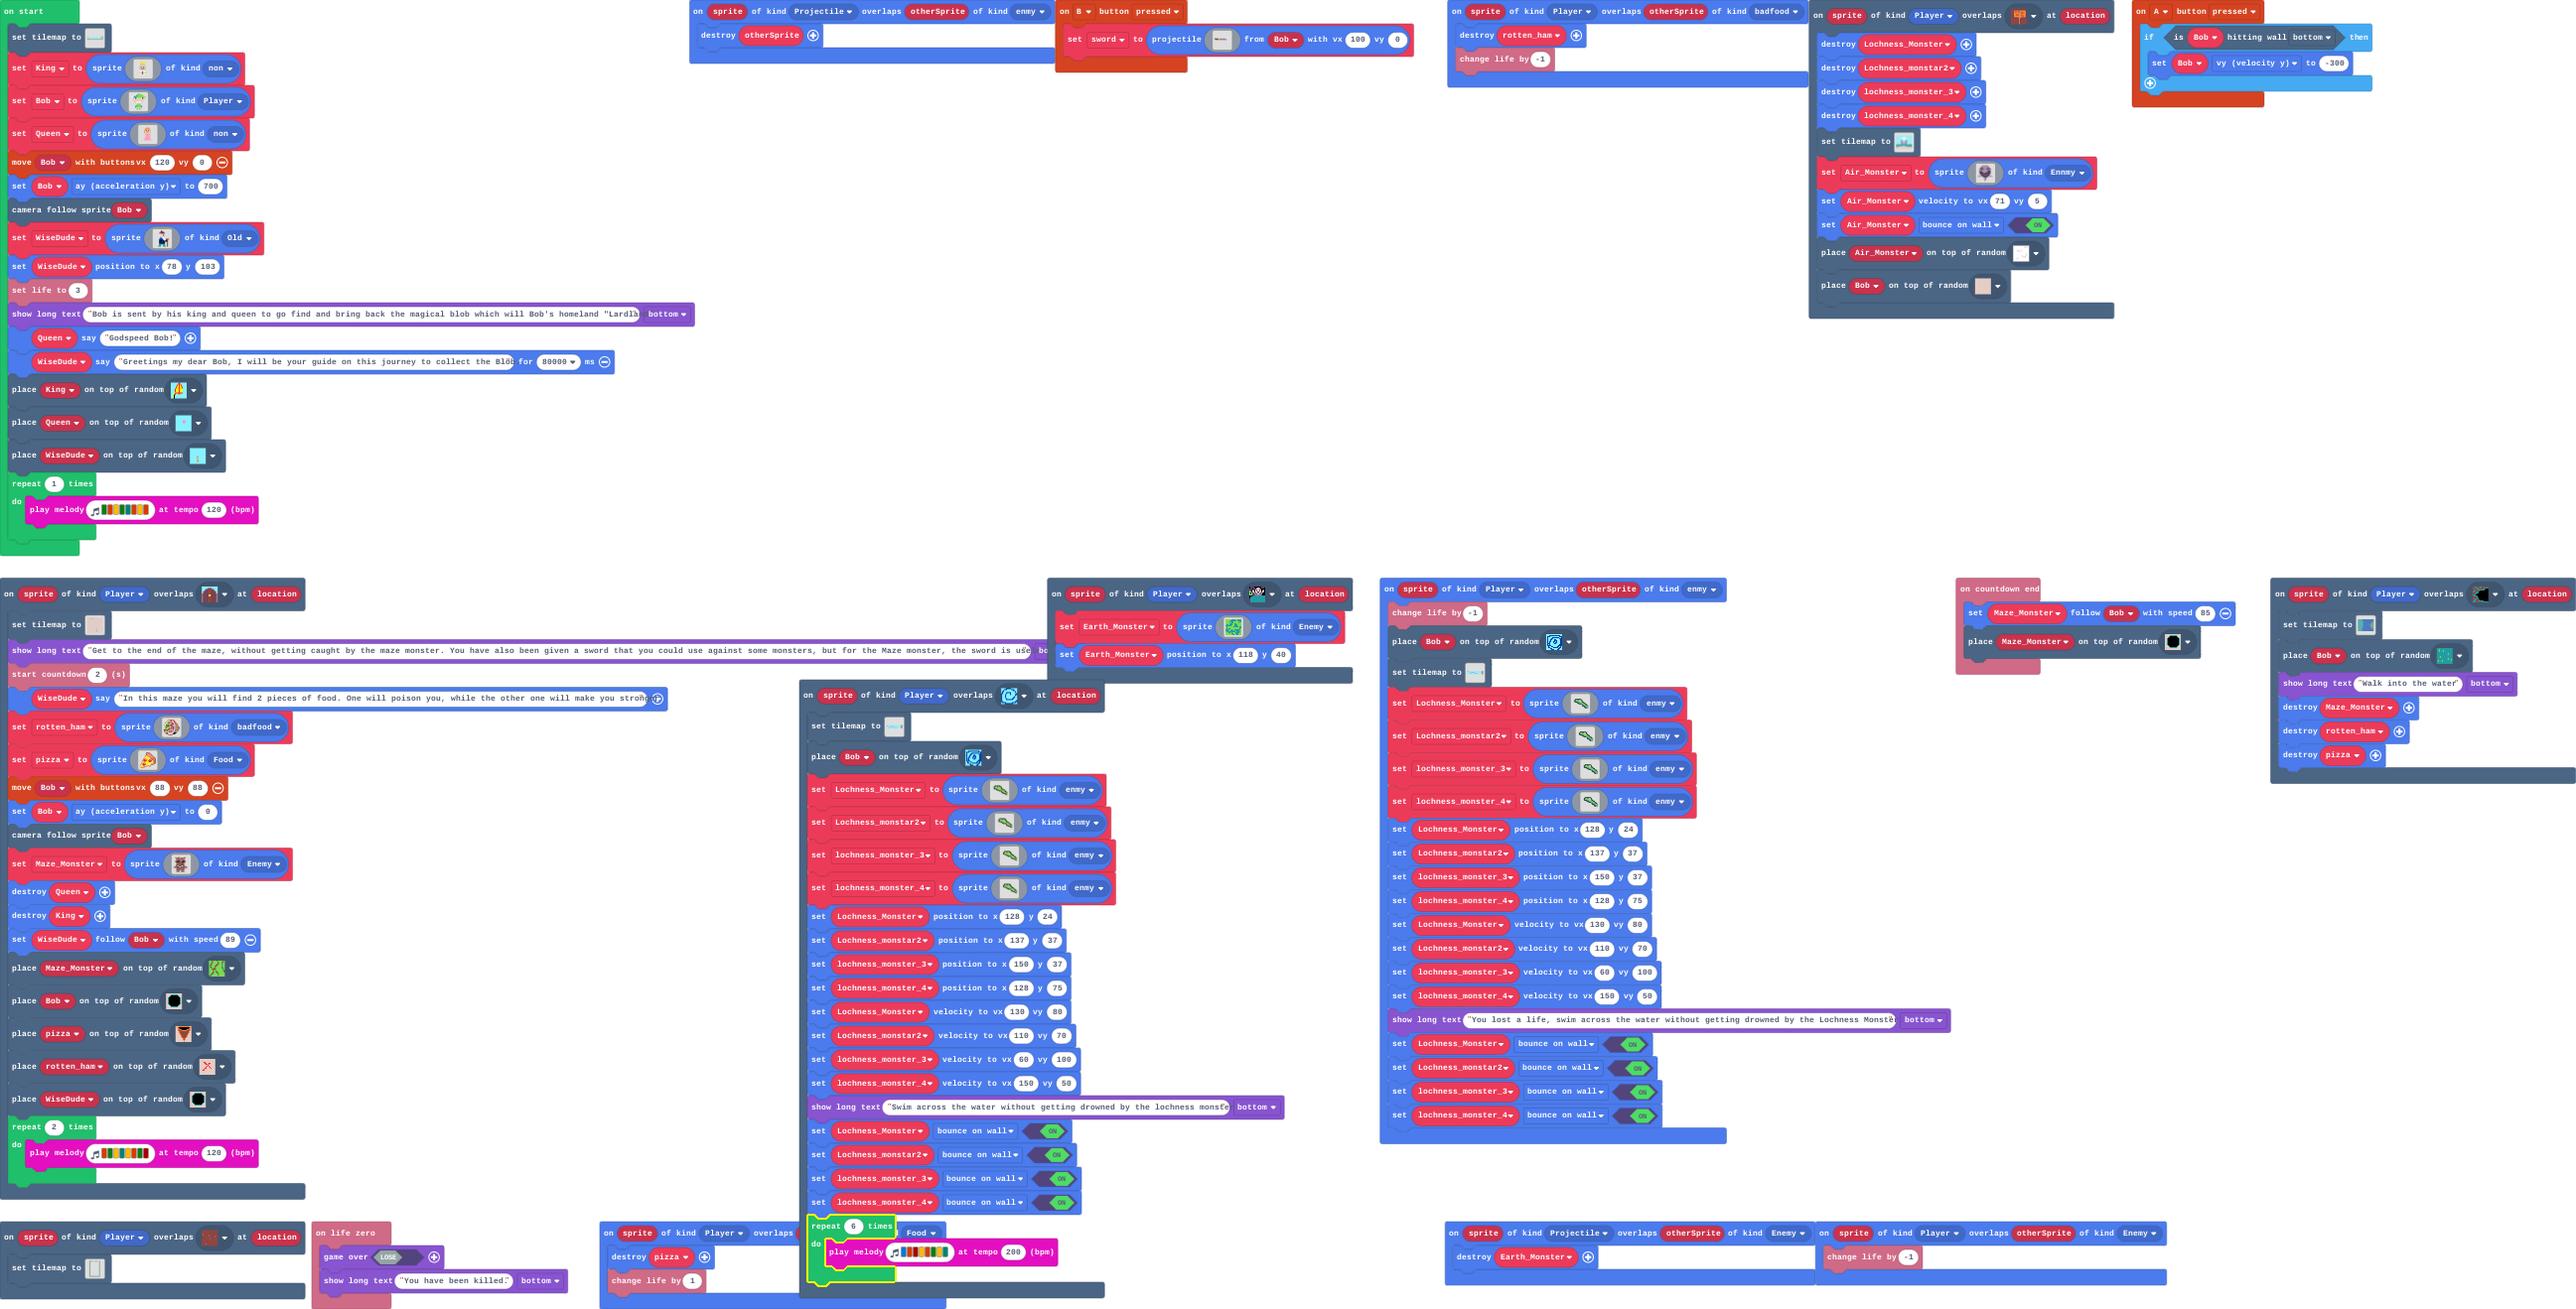
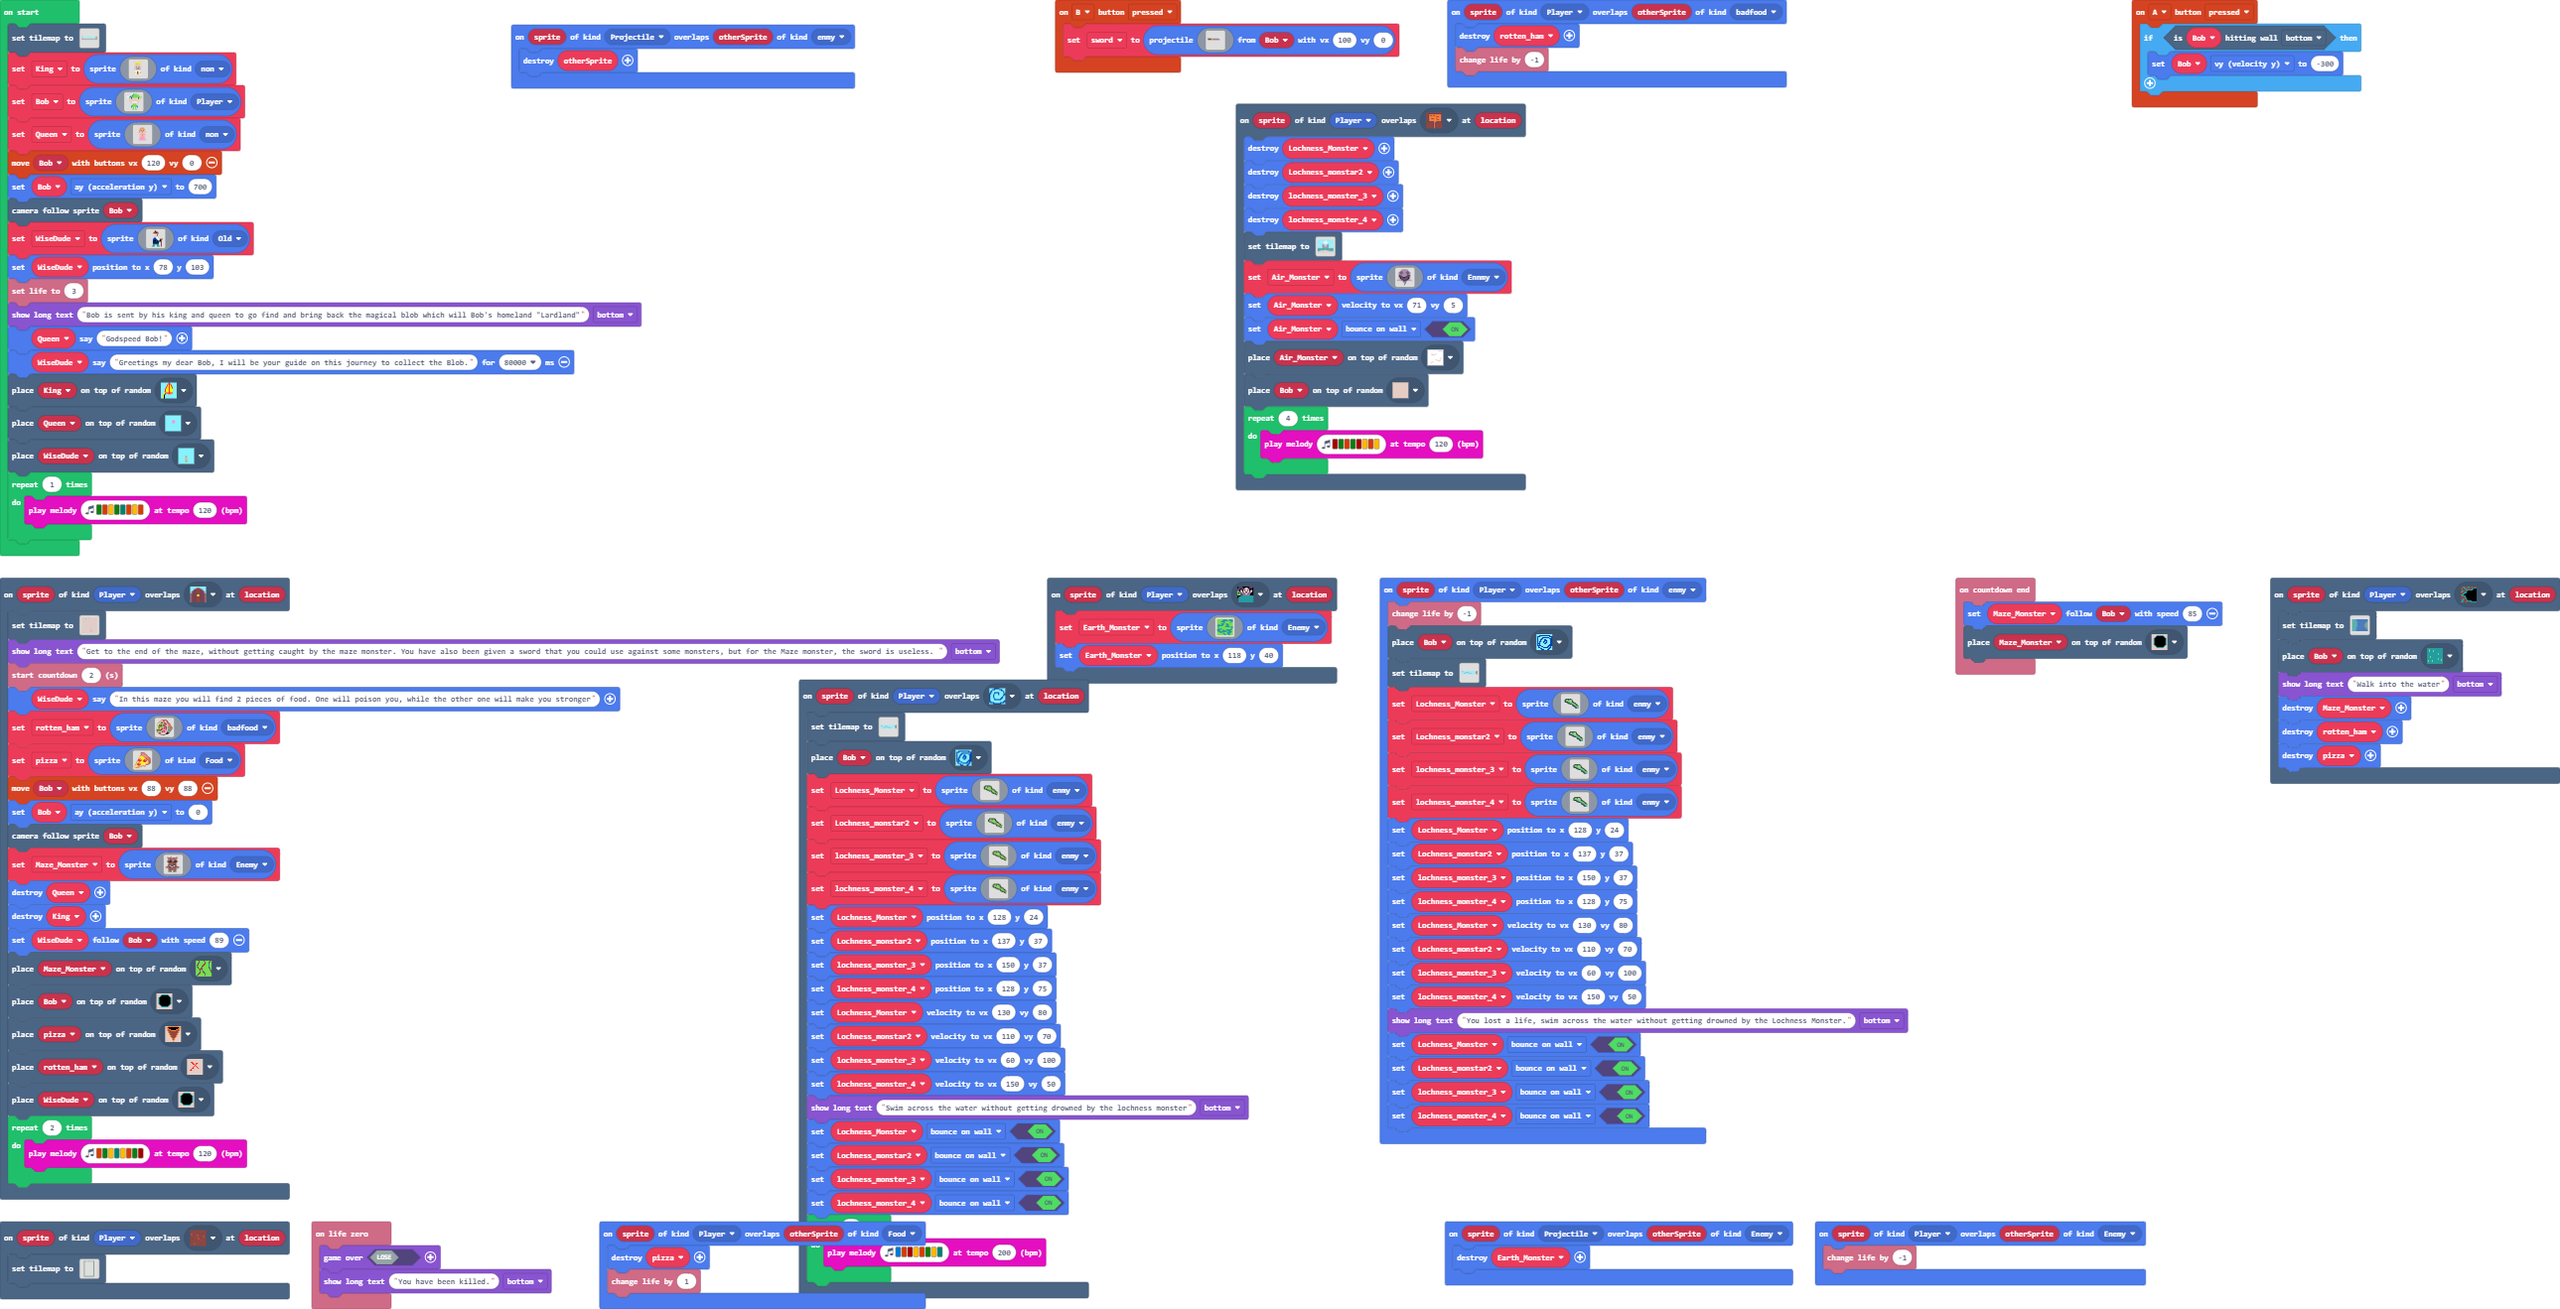
Update main.blocks, main.ts

diff --git a/main.ts b/main.ts
@@ -95,6 +95,9 @@ scene.onOverlapTile(SpriteKind.Player, myTiles.tile42, function (sprite, locatio
     Air_Monster.setFlag(SpriteFlag.BounceOnWall, true)
     tiles.placeOnRandomTile(Air_Monster, myTiles.tile62)
     tiles.placeOnRandomTile(Bob, myTiles.tile71)
+    for (let index = 0; index < 4; index++) {
+        music.playMelody("C5 G B G C5 A B A ", 120)
+    }
 })
 controller.A.onEvent(ControllerButtonEvent.Pressed, function () {
     if (Bob.isHittingTile(CollisionDirection.Bottom)) {
